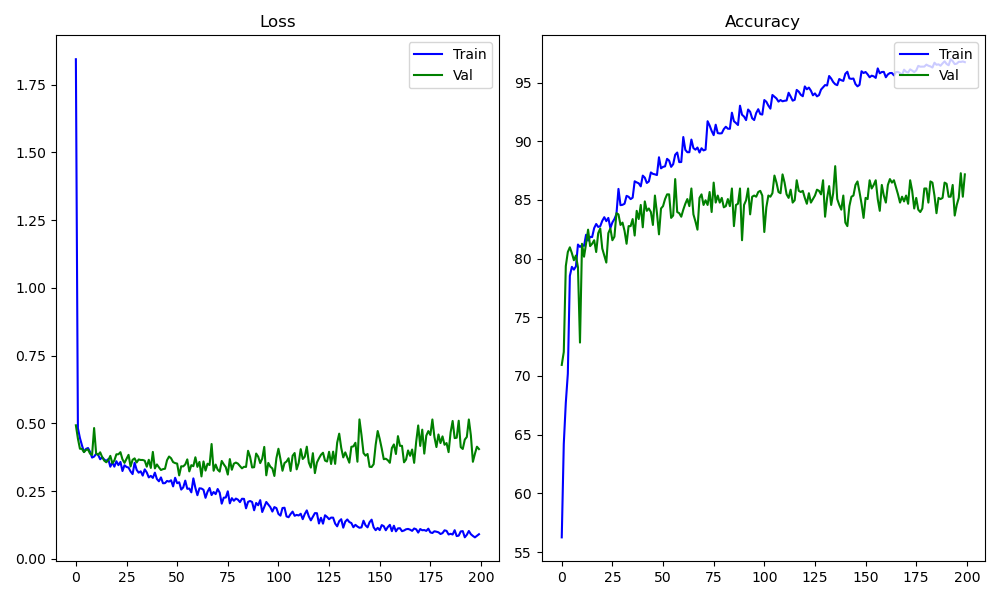
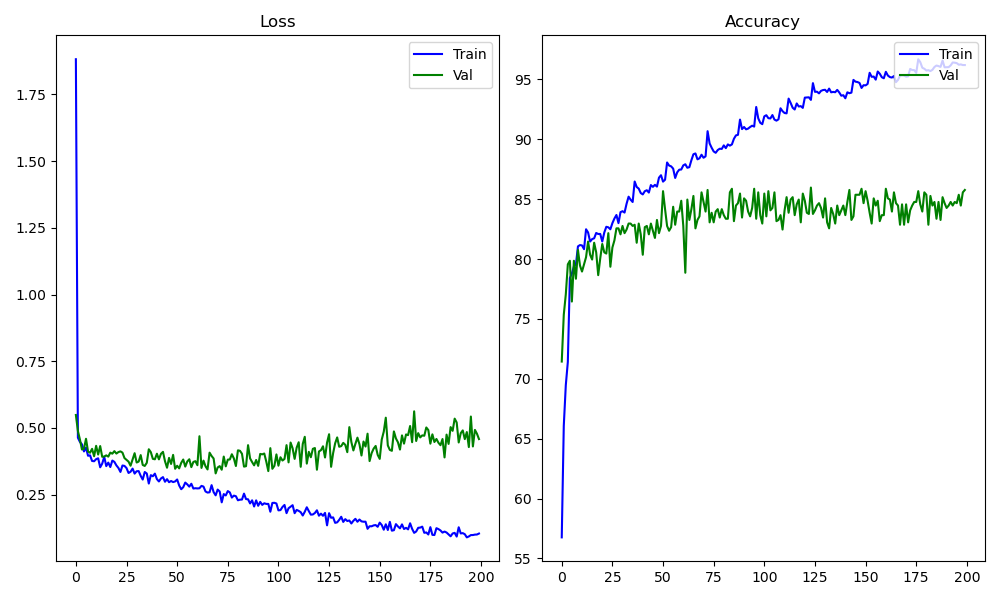
split into more files, added eval mode

diff --git a/main.py b/main.py
@@ -1,17 +1,20 @@
 import torch
 import numpy as np
-import matplotlib.pyplot as plt
 import torch.optim as optim
 import torch.nn as nn
-from utilities import FlowCamDataLoader
-from backbone import BackBone
+from os import listdir
+from os.path import isfile, join
 from tqdm import tqdm
+from utilities import save_train_plot
+from dataloader import FlowCamDataLoader
+from trainer import train_model
+from backbone import BackBone
 
 if __name__ == "__main__":
     #class_names = ["Bacillariophyceae", "Rhizosoleniaceae", "Melosiraceae", "Coscinodiscaceae", "Dinophyceae", "Chaetoceros", "nauplii"]
     class_names = ["Bacillariophyceae", "Rhizosoleniaceae", "Melosiraceae", "Coscinodiscaceae"]
     batch_size = 64
-    epochs = 50
+    epochs = 50 
     lr = 0.0014
     val = 0.05 #Use 10% for validation data 
     test = 0.2 #Use 20% for test data
@@ -20,6 +23,7 @@ if __name__ == "__main__":
     
     device = torch.device('cuda:4') 
     print(f"Device: {device}")
+    torch.manual_seed(0)
     
     #Load custom dataset
     train_dataloader, val_dataloader, test_dataloader = FlowCamDataLoader(class_names, image_size, val, test,  batch_size)
@@ -27,65 +31,40 @@ if __name__ == "__main__":
     print(f"Training data: {len(train_dataloader)*batch_size} images.")
     print(f"Validation data: {len(val_dataloader)*batch_size} images.")
     print(f"Test data: {len(test_dataloader)*batch_size} images.")
-
+    
     #Use custom backbone based on EfficientNet v2
     classifier = BackBone(number_of_classes)
     classifier.to(device)
 
-    loss_function = nn.CrossEntropyLoss()
-    optimizer = optim.Adam(classifier.parameters(), lr=lr)
+    if not isfile("./checkpoints/best.pth"):
+        print("Training...")
+        loss_function = nn.CrossEntropyLoss()
+        optimizer = optim.Adam(classifier.parameters(), lr=lr)
+        train_history = train_model(classifier, train_dataloader, val_dataloader, loss_function, optimizer, epochs, device)
+        save_train_plot("training_plot.png", train_history)
+    else:
+        print("Loading checkpoint...")
+        classifier.load_state_dict(torch.load("./checkpoints/best.pth"))
+        
+        correct_pred = {classname: 0 for classname in class_names}
+        total_pred = {classname: 0 for classname in class_names}
 
-    steps = len(train_dataloader) // 4 #Compute validation and train loss 4 times every epoch
-    
-    train_history = {"train_loss":[], "train_accuracy":[], "val_loss":[], "val_accuracy":[]}
+        # again no gradients needed
+        with torch.no_grad():
+            print("Evaluating model on test data...")
+            for data in tqdm(test_dataloader):
+                images, labels = data[0].to(device), data[1].to(device)
+                outputs = classifier(images)
+                _, predictions = torch.max(outputs, 1)
+                # collect the correct predictions for each class
+                for label, prediction in zip(labels, predictions):
+                    if label == prediction:
+                        correct_pred[class_names[label]] += 1
+                    total_pred[class_names[label]] += 1
 
-    for epoch in range(epochs):
-        train_losses = []
-        train_accuracies = []
-        for i, data in enumerate((pbar := tqdm(train_dataloader))):
-            images, labels = data[0].to(device), data[1].to(device)
-            optimizer.zero_grad()
-            outputs = classifier(images)
-            loss = loss_function(outputs, labels)
-            loss.backward()
-            optimizer.step()
-            train_losses.append(loss.item())
-            
-            _, predicted = torch.max(outputs.data, 1)
-            train_accuracies.append((predicted == labels).sum().item() / labels.size(0))
-            if i % steps == steps - 1:
-                train_loss = np.mean(train_losses)
-                train_losses = []
-                train_accuracy = 100.0 * np.mean(train_accuracies)
-                correct = 0
-                total = 0
-                val_losses = []
-                with torch.no_grad():
-                    for data in val_dataloader:
-                        images, labels = data[0].to(device), data[1].to(device)
-                        outputs = classifier(images)
-                        val_losses.append(loss_function(outputs, labels).item())
-                        _, predicted = torch.max(outputs.data, 1)
-                        total += labels.size(0)
-                        correct += (predicted == labels).sum().item()
-                    val_accuracy = 100.0 * correct / total
-                    val_loss = np.mean(val_losses)
-                if train_history["val_accuracy"] and val_accuracy > np.max(train_history["val_accuracy"]):
-                    torch.save(classifier.state_dict(), "./checkpoints/best.pth")
-                train_history["train_loss"].append(train_loss)
-                train_history["train_accuracy"].append(train_accuracy)
-                train_history["val_loss"].append(val_loss)
-                train_history["val_accuracy"].append(val_accuracy)
-                pbar.set_description(f"Epoch {epoch}/{epochs-1} | Loss: Train={round(train_loss, 3)} Val={round(val_loss, 3)} | Acc.: Train={round(train_accuracy,1)}% Val={round(val_accuracy, 1)}%")
-    #Plot losses and accuracies
-    fig, axes = plt.subplots(nrows=1, ncols=2, figsize=(10, 6))
-    axes[0].plot(train_history["train_loss"], 'b', label="Train")
-    axes[0].plot(train_history["val_loss"], 'g', label="Val")
-    axes[1].plot(train_history["train_accuracy"], 'b', label="Train")
-    axes[1].plot(train_history["val_accuracy"], 'g', label="Val")
-    axes[0].title.set_text('Loss')
-    axes[1].title.set_text('Accuracy')
-    axes[0].legend(loc="upper right")
-    axes[1].legend(loc="upper right")
-    fig.tight_layout()
-    plt.savefig("training_plot.png")
+        print("Class accuracies:")
+        for classname, correct_count in correct_pred.items():
+            accuracy = 100 * float(correct_count) / total_pred[classname]
+            print(f'\"{classname}\" {accuracy:.1f} %')
+
+

diff --git a/utilities.py b/utilities.py
@@ -1,47 +1,15 @@
-import torch
-from torch.utils.data.dataset import Dataset
-from torchvision import transforms
-from os import listdir
-from os.path import isfile, join
-from PIL import Image
+import matplotlib.pyplot as plt
 
-class FlowCamDataSet(Dataset):
-    def __init__(self, class_names, image_size = (300, 300)): 
-        self.base_dir = "/data/ansatte/kma026/data/FlowCamNet/imgs"
-        self.class_names = class_names
-        self.images = []
-        self.class_sizes = []
-        
-        for i, class_name in enumerate(self.class_names):
-            image_dir = join(self.base_dir, class_name)
-            images = [(join(image_dir,f), i) for f in listdir(image_dir) if isfile(join(image_dir, f))]
-            self.images += images
-            self.class_sizes.append((class_name, len(images)))
-        self.transformations = transforms.Compose([transforms.Resize(image_size), transforms.ToTensor()])
-        self.number_of_images = len(self.images)
-        for class_name, class_size in self.class_sizes:
-            print(f"\"{class_name}\": {class_size} images ({round(100*class_size/self.number_of_images, 2)}%).")
-        print(f"Total: {self.number_of_images} images.")
-
-    def __getitem__(self, index):
-        filename, label = self.images[index]
-        image = Image.open(filename).convert("RGB")
-        image = self.transformations(image)
-        return (image, label)
-
-    def __len__(self):
-        return self.number_of_images
-
-def FlowCamDataLoader(class_names, image_size = (300, 300), val = 0.1, test = 0.2, batch_size = 32):
-    dataset = FlowCamDataSet(class_names, image_size)
-    #Split into train and test data
-    val_size = int(val * len(dataset))
-    test_size = int(test * len(dataset))
-    train_size = len(dataset) - val_size - test_size
-    train_dataset, val_dataset, test_dataset = torch.utils.data.random_split(dataset, [train_size, val_size, test_size])
-
-    train_dataloader = torch.utils.data.DataLoader(train_dataset, batch_size=batch_size, shuffle=True)
-    val_dataloader = torch.utils.data.DataLoader(val_dataset, batch_size=batch_size, shuffle=True)
-    test_dataloader = torch.utils.data.DataLoader(test_dataset, batch_size=batch_size, shuffle=False)
-
-    return train_dataloader, val_dataloader, test_dataloader
+def save_train_plot(filename, train_history):
+    #Plot losses and accuracies
+    fig, axes = plt.subplots(nrows=1, ncols=2, figsize=(10, 6))
+    axes[0].plot(train_history["train_loss"], 'b', label="Train")
+    axes[0].plot(train_history["val_loss"], 'g', label="Val")
+    axes[1].plot(train_history["train_accuracy"], 'b', label="Train")
+    axes[1].plot(train_history["val_accuracy"], 'g', label="Val")
+    axes[0].title.set_text('Loss')
+    axes[1].title.set_text('Accuracy')
+    axes[0].legend(loc="upper right")
+    axes[1].legend(loc="upper right")
+    fig.tight_layout()
+    plt.savefig("training_plot.png")

diff --git a/trainer.py b/trainer.py
@@ -1,0 +1,46 @@
+import torch
+from tqdm import tqdm
+import numpy as np
+
+def train_model(classifier, train_dataloader, val_dataloader, loss_function, optimizer, epochs, device):
+    train_history = {"train_loss":[], "train_accuracy":[], "val_loss":[], "val_accuracy":[]}
+    steps = len(train_dataloader) // 4 #Compute validation and train loss 4 times every epoch
+    for epoch in range(epochs):
+        train_losses = []
+        train_accuracies = []
+        for i, data in enumerate((pbar := tqdm(train_dataloader))):
+            images, labels = data[0].to(device), data[1].to(device)
+            optimizer.zero_grad()
+            outputs = classifier(images)
+            loss = loss_function(outputs, labels)
+            loss.backward()
+            optimizer.step()
+            train_losses.append(loss.item())
+            
+            _, predicted = torch.max(outputs.data, 1)
+            train_accuracies.append((predicted == labels).sum().item() / labels.size(0))
+            if i % steps == steps - 1:
+                train_loss = np.mean(train_losses)
+                train_losses = []
+                train_accuracy = 100.0 * np.mean(train_accuracies)
+                correct = 0
+                total = 0
+                val_losses = []
+                with torch.no_grad():
+                    for data in val_dataloader:
+                        images, labels = data[0].to(device), data[1].to(device)
+                        outputs = classifier(images)
+                        val_losses.append(loss_function(outputs, labels).item())
+                        _, predicted = torch.max(outputs.data, 1)
+                        total += labels.size(0)
+                        correct += (predicted == labels).sum().item()
+                    val_accuracy = 100.0 * correct / total
+                    val_loss = np.mean(val_losses)
+                if train_history["val_accuracy"] and val_accuracy > np.max(train_history["val_accuracy"]):
+                    torch.save(classifier.state_dict(), "./checkpoints/best.pth")
+                train_history["train_loss"].append(train_loss)
+                train_history["train_accuracy"].append(train_accuracy)
+                train_history["val_loss"].append(val_loss)
+                train_history["val_accuracy"].append(val_accuracy)
+                pbar.set_description(f"Epoch {epoch}/{epochs-1} | Loss: Train={round(train_loss, 3)} Val={round(val_loss, 3)} | Acc.: Train={round(train_accuracy,1)}% Val={round(val_accuracy, 1)}%")
+    return train_history

diff --git a/dataloader.py b/dataloader.py
@@ -1,0 +1,47 @@
+import torch
+from torch.utils.data.dataset import Dataset
+from torchvision import transforms
+from os import listdir
+from os.path import isfile, join
+from PIL import Image
+
+class FlowCamDataSet(Dataset):
+    def __init__(self, class_names, image_size = (300, 300)): 
+        self.base_dir = "/data/ansatte/kma026/data/FlowCamNet/imgs"
+        self.class_names = class_names
+        self.images = []
+        self.class_sizes = []
+        
+        for i, class_name in enumerate(self.class_names):
+            image_dir = join(self.base_dir, class_name)
+            images = [(join(image_dir,f), i) for f in listdir(image_dir) if isfile(join(image_dir, f))]
+            self.images += images
+            self.class_sizes.append((class_name, len(images)))
+        self.transformations = transforms.Compose([transforms.Resize(image_size), transforms.ToTensor()])
+        self.number_of_images = len(self.images)
+        for class_name, class_size in self.class_sizes:
+            print(f"\"{class_name}\": {class_size} images ({round(100*class_size/self.number_of_images, 2)}%).")
+        print(f"Total: {self.number_of_images} images.")
+
+    def __getitem__(self, index):
+        filename, label = self.images[index]
+        image = Image.open(filename).convert("RGB")
+        image = self.transformations(image)
+        return (image, label)
+
+    def __len__(self):
+        return self.number_of_images
+
+def FlowCamDataLoader(class_names, image_size = (300, 300), val = 0.1, test = 0.2, batch_size = 32):
+    dataset = FlowCamDataSet(class_names, image_size)
+    #Split into train and test data
+    val_size = int(val * len(dataset))
+    test_size = int(test * len(dataset))
+    train_size = len(dataset) - val_size - test_size
+    train_dataset, val_dataset, test_dataset = torch.utils.data.random_split(dataset, [train_size, val_size, test_size])
+
+    train_dataloader = torch.utils.data.DataLoader(train_dataset, batch_size=batch_size, shuffle=True)
+    val_dataloader = torch.utils.data.DataLoader(val_dataset, batch_size=batch_size, shuffle=True)
+    test_dataloader = torch.utils.data.DataLoader(test_dataset, batch_size=batch_size, shuffle=False)
+
+    return train_dataloader, val_dataloader, test_dataloader

diff --git a/backbone.py b/backbone.py
@@ -1,6 +1,3 @@
-# Add backbone classifier here...
-# Base it on a pre-trained EfficientNet v2 (small)
-
 import torch
 import torch.nn as nn
 from torchsummary import summary
